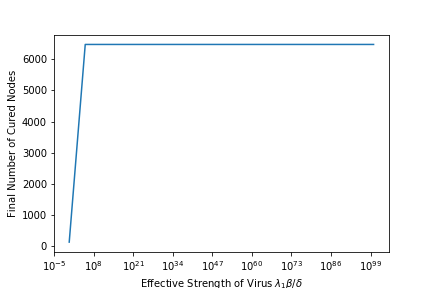
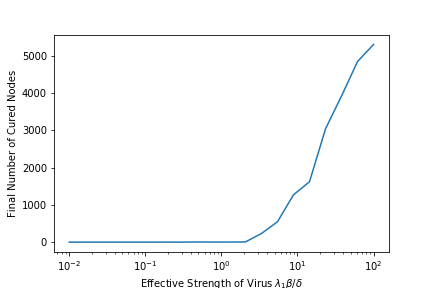
logspace

diff --git a/code/Operation Spectrum/gillespie_with_EoN.py b/code/Operation Spectrum/gillespie_with_EoN.py
@@ -81,12 +81,12 @@ def fig_5_left(G):
 
 def fig_5_right(G):
     initial_size = 10 # int(float(len(G))/(10**(2)))
-    iterations = 10
+    iterations = 100
     start_time = 0
     end_time = 10
     delta = eig
-    number_of_steps = 100
-    beta_range = scipy.linspace(10**(-2), 10**2, number_of_steps)
+    number_of_steps = 20
+    beta_range = scipy.logspace(-2,2, number_of_steps)
     final_number_of_cured_nodes = scipy.zeros_like(beta_range)
     for i, beta  in enumerate(beta_range):
         final_number_of_cured_nodes[i] = time_evolution_SIR(G, beta, delta, initial_size, start_time, end_time, iterations, "Hi", opt = 'number_of_cured_nodes')
@@ -102,7 +102,7 @@ def fig_5_right(G):
 
 
 if __name__ == "__main__":
-    fig_5_left(E)
+    #fig_5_left(E)
     fig_5_right(E)
 
 
